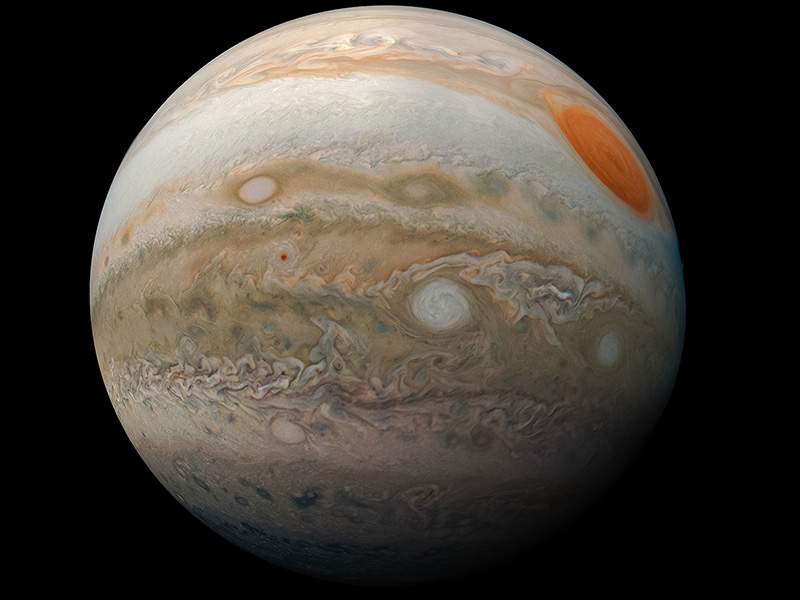
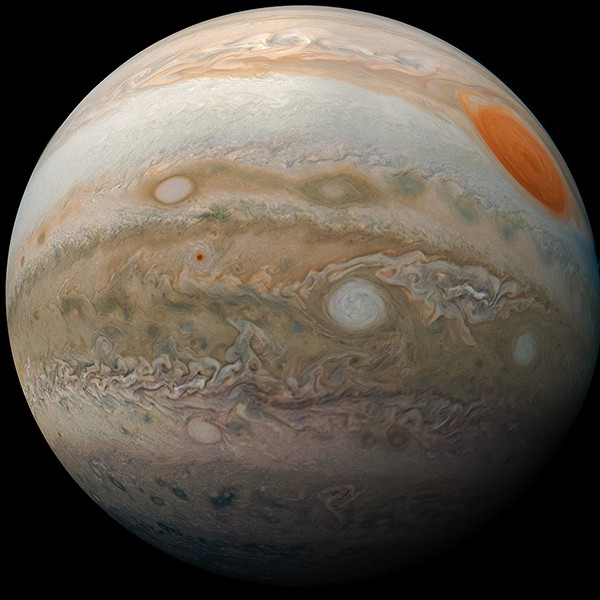
modified and resized images, added new text for images

diff --git a/index.html b/index.html
@@ -41,28 +41,28 @@
         
         <div class="part2">
             
-            <div class="part2-info">Some random information.</div>
+            <div class="part2-info">Beautiful places to build a new home.</div>
             
             <div class="part2-bottom">
                 
                 <div class="p2-container1">
-                    <img class="p2-img" src="" alt="">
-                    <div class="p2-txtbox"></div>
+                    <img class="p2-img" src="./img/mars.jpg" alt="planet mars">
+                    <div class="p2-txtbox">Mars -  when you feel angry and need to process that energy</div>
                 </div>
                 
                 <div class="p2-container2">
-                    <img class="p2-img" src="" alt="">
-                    <div class="p2-txtbox"></div>
+                    <img class="p2-img" src="./img/Jupiter.jpg" alt="planet Jupiter">
+                    <div class="p2-txtbox">Jupiter - very spacious, best when you feel zen and want to appreciate life</div>
                 </div>
                 
                 <div class="p2-container3">
-                    <img class="p2-img" src="" alt="">
-                    <div class="p2-txtbox"></div>
+                    <img class="p2-img" src="./img/mercury.jpg" alt="planet mercury">
+                    <div class="p2-txtbox">Mercury when you feel cold and need a warmer place</div>
                 </div>
                 
                 <div class="p2-container4">
-                    <img class="p2-img" src="" alt="">
-                    <div class="p2-txtbox"></div>
+                    <img class="p2-img" src="./img/saturn.jpg" alt="planet saturn">
+                    <div class="p2-txtbox">Saturn - enjoy the rings, enjoy the vista!</div>
                 </div>
             </div>
         </div>

diff --git a/style.css b/style.css
@@ -84,6 +84,11 @@ ul {
     height: 550px;
 }
 
+.p2-img {
+    height: 200px;
+    width: 200px;
+}
+
 /*******************************part 3**************/
 .part3 {
     background-color: grey;
